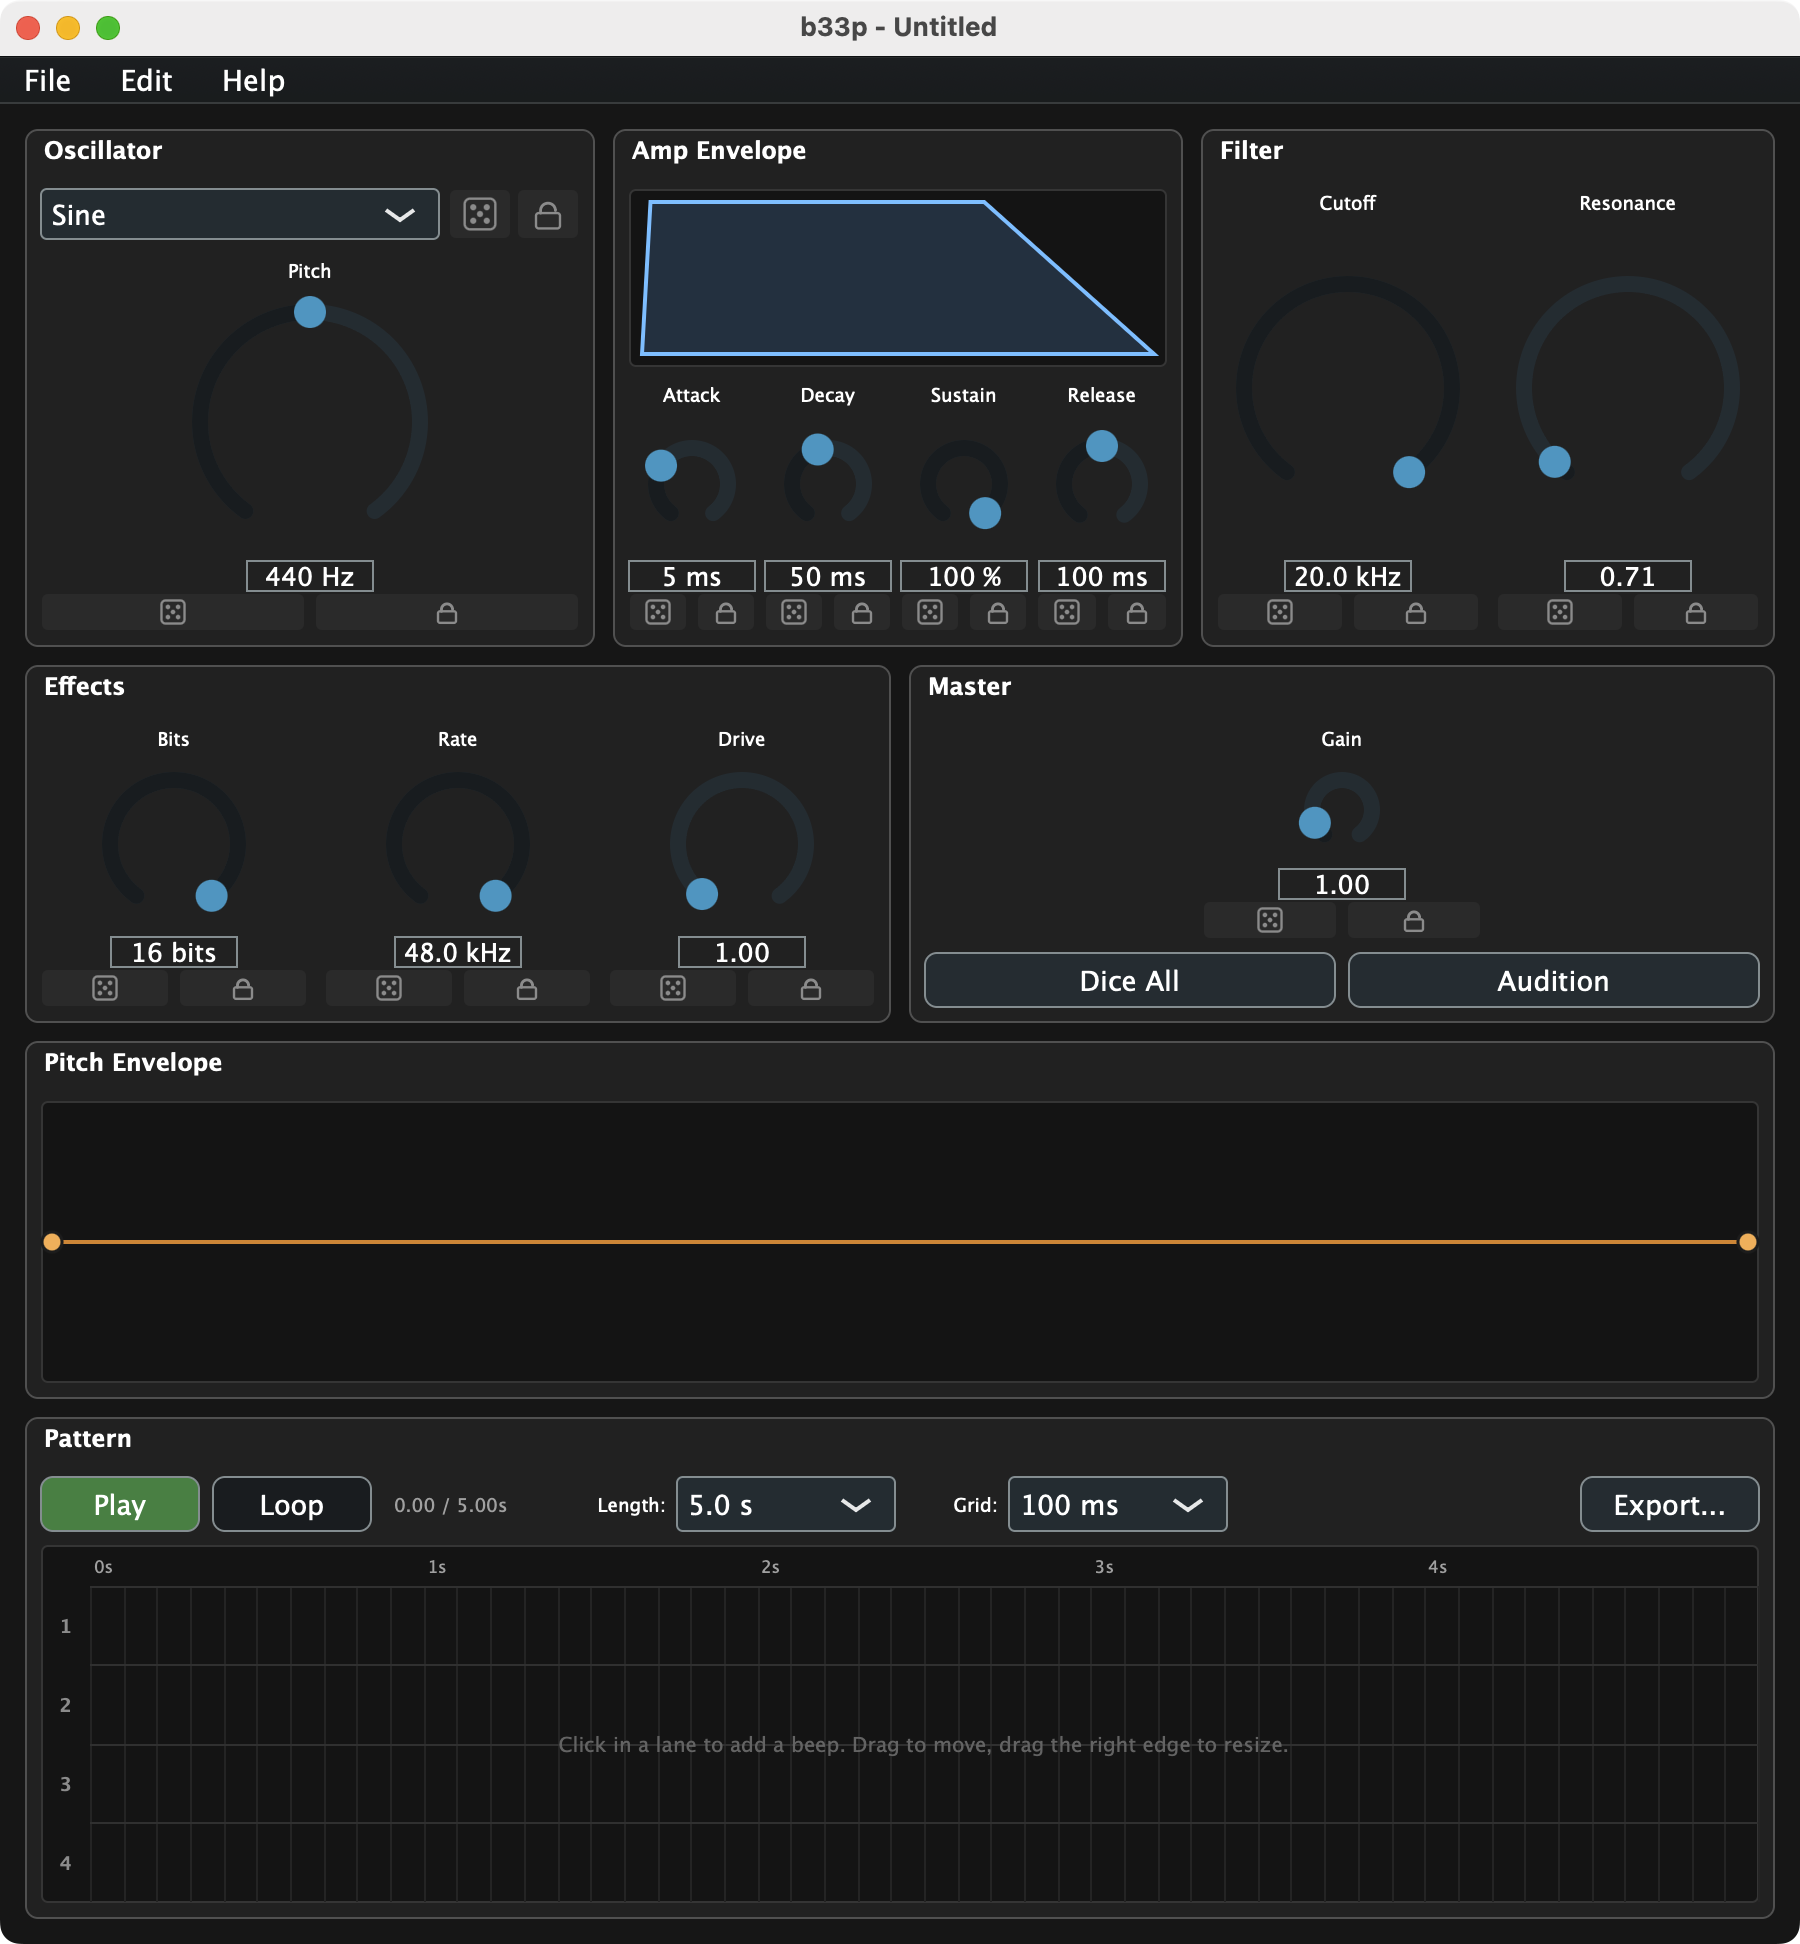
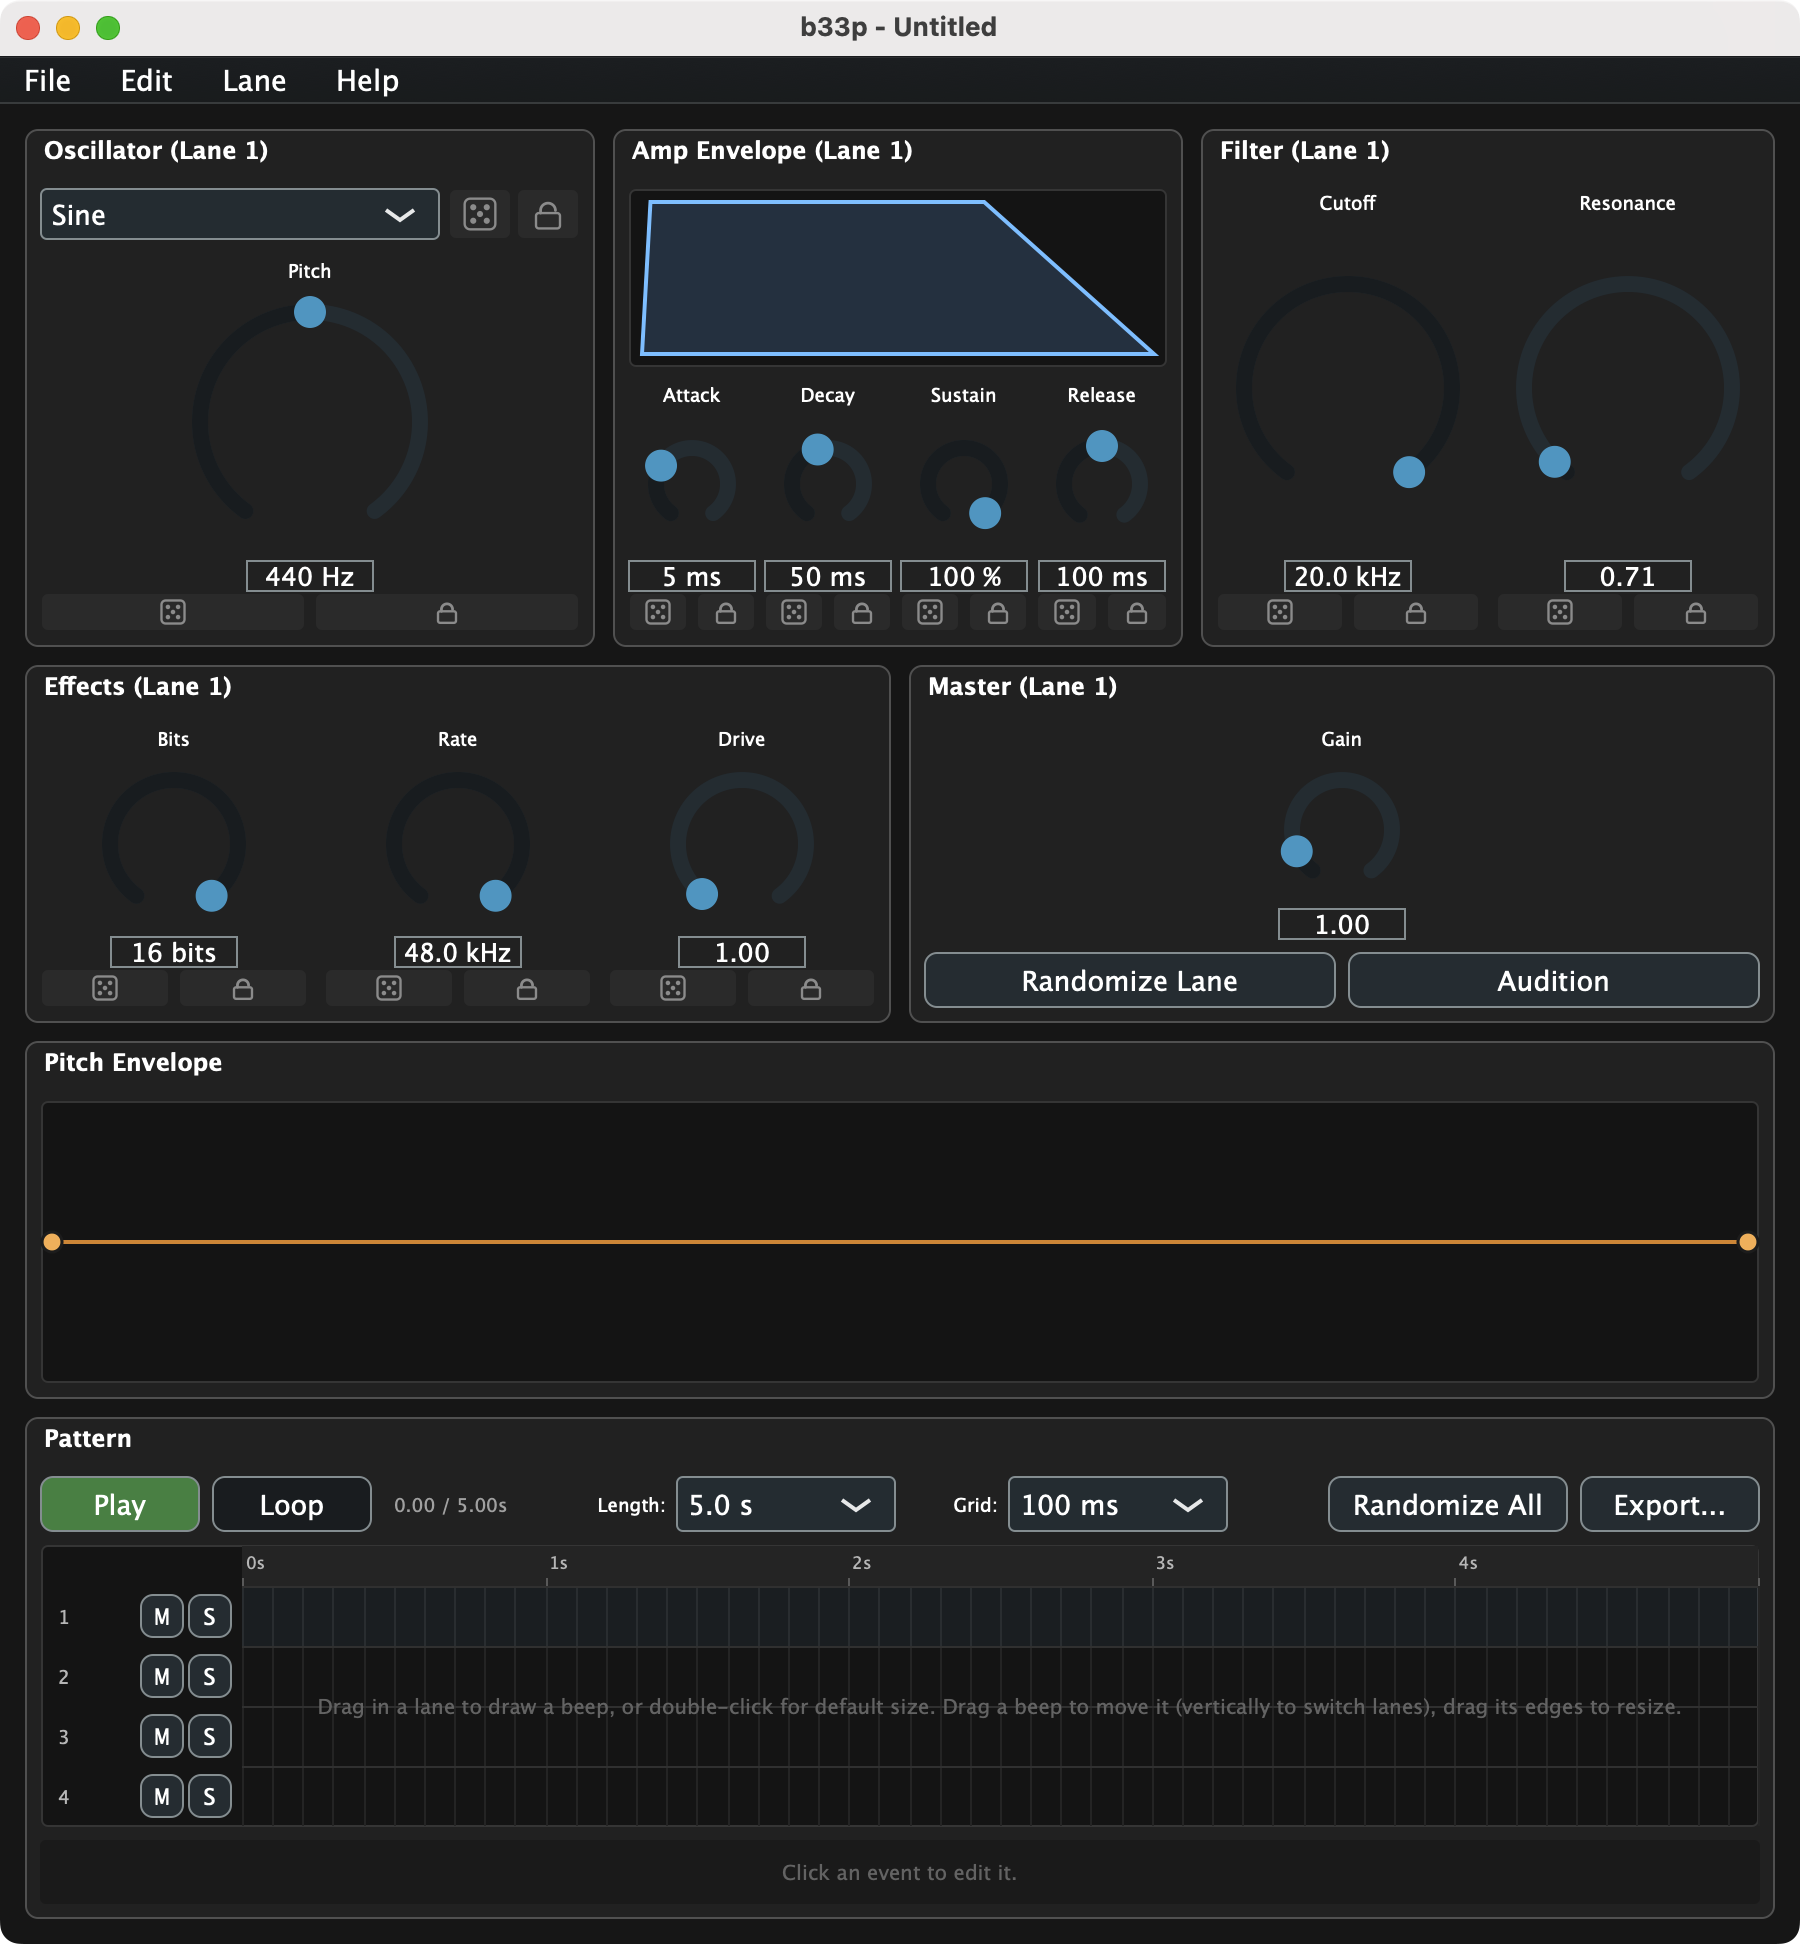
docs: rewrite README to match the current build + refresh hero screenshot
Resolves the highest-priority finding from the end-user review:
the README was telling new users about controls that don't exist
("big Dice at top", "Pattern tab", Cmd+D / Cmd+E shortcuts,
musical-grid-snap promise) and listing shipped features as
"Coming after v0.1" (Custom Waveforms, Multi-voice).

The rewrite:
  - Status bumped from "Pre-alpha" to "v0.1.0 released" with a
    pointer to CI-built binaries.
  - Features section reflects the actual current build:
    per-lane voice editor, custom oscillator, drawn pitch env,
    multi-select + clipboard, generate-random-pattern,
    randomization safety caps, live-edit-during-playback.
  - Quickstart matches the actual UI (Audition button, Randomize
    Lane, drag-or-double-click in lane, Space = play/stop).
  - Keyboard shortcut table broken into Transport / File-Edit /
    Pattern groups; every documented shortcut now exists in the
    build, and the previously-undocumented ones (Cmd+A/C/V,
    arrows, Esc, Shift+Space) are listed.
  - New "Mouse / right-click" section covers the right-click
    menus, ruler-click-to-park-playhead, drag-top-edge-for-
    velocity, and lane-rename — all things that were
    discoverable only by trial.
  - "On the v0.2 roadmap" section points at the new
    `## v0.2 polish & doc sweep` entry in TODO.md.
  - "Beyond v0.2" trimmed to features that aren't yet built.

Hero screenshot regenerated against the current UI so the Lane
menu, "(Lane N)" section suffixes, M/S per-lane buttons,
[…]

diff --git a/README.md b/README.md
@@ -2,45 +2,55 @@
 
 > Small sounds. Fast iteration. Infinite dice rolls.
 
-**b33p** is a focused sound-design tool for short synthesized beeps, blips, alarms, and droid chatter — the kind of sounds you'd hear from Star Wars droids, retro games, sci-fi UIs, and chirpy gadgets. Design a voice, lay it out on a pattern timeline, hit the dice until something surprises you, then export a WAV.
+**b33p** is a focused sound-design tool for short synthesized beeps, blips, alarms, and droid chatter — the kind of sounds you'd hear from Star Wars droids, retro games, sci-fi UIs, and chirpy gadgets. Design a voice, lay it out on a pattern timeline, hit Randomize until something surprises you, then export a WAV.
 
 Built for sound designers, game developers, and synth hobbyists who want a tight workflow for one specific problem: making a lot of good tiny sounds, quickly.
 
 ## Status
 
-**Pre-alpha — not yet released.** Active development toward v0.1 (MVP). See [TODO.md](TODO.md) for the roadmap.
+**v0.1.0 released — actively iterating toward v0.2.** Built binaries for macOS, Linux, and Windows are attached to each [GitHub Actions run on `main`](https://github.com/themightyzq/b33p/actions/workflows/build.yml). See [TODO.md](TODO.md) for the active backlog.
 
-## Features (MVP target)
+## Features
 
-What the first release will actually do:
+- **Per-lane voice design** — every lane in the pattern owns its own voice (4 lanes, 4 independently-tuneable timbres). Pick a lane in the pattern grid; the voice editor retargets to that lane's parameters.
+- **Oscillator** — sine, square, triangle, saw, noise, plus a **drawable custom single-cycle waveform** per lane.
+- **Drawn pitch envelope** — click in the curve to add points, drag to shape, right-click to delete. Shared across lanes.
+- **ADSR amp envelope** — with a live visualiser.
+- **Lowpass filter, bitcrush, distortion, master gain.**
+- **Pattern sequencer** — 4 lanes, up to 10 seconds, per-event start / duration / pitch offset / velocity. Snap grid in milliseconds (10 ms ... 1000 ms, or off). Per-lane name, mute, and solo.
+- **Direct-manipulation clip editing** — drag the body to move (vertically across lanes), drag either edge to resize, drag the top edge to set velocity, double-click empty grid to drop a clip at default size, or click + drag empty grid to draw any size. Cursor changes to telegraph the gesture.
+- **Multi-select + clipboard** — shift-click to extend the selection, Cmd+A select all, Cmd+C / Cmd+V copy/paste at the playhead.
+- **Generate random pattern** — right-click an empty lane area and pick "Generate random pattern in this lane" for instant rhythm.
+- **Randomization with safety rails** — every parameter (except master gain) has a per-knob dice + lock; "Randomize Lane" rolls the selected lane's voice; "Randomize All" rolls every lane. Random rolls are capped at safe ranges so a single click can't blow ears or speakers (release ≤ 100 ms, attack ≤ 500 ms, resonance ≤ Q 5, drive ≤ 20).
+- **Live editing during playback** — adding events, dragging clips, drawing custom waveforms — all audible within ~5 ms while the pattern loops.
+- **WAV export** — 8 / 11.025 / 16 / 22.05 / 44.1 / 48 kHz; 8 / 16 / 24-bit; mono or stereo. Built for both clean renders and crunchy retro-console exports.
+- **Project save / load** — `.beep` files carry the full project state, including custom waveform tables. Format is versioned with explicit migrations; older `.beep` files always open in newer b33p versions.
+- **Full undo / redo** through every editing surface.
 
-- **Voice design** — one oscillator (sine, square, triangle, saw, noise), drawable pitch envelope, ADSR amp envelope, lowpass filter, bitcrush, distortion, master gain
-- **Pattern sequencer** — up to 4 lanes, 10-second max, per-event pitch offset, grid snap (1/4 down to 1/32, or off)
-- **Dice everywhere** — every parameter has a lock and a dice button. A top-level dice rerolls everything unlocked. Full undo support.
-- **WAV export** — sample rates from 8 kHz up to 48 kHz, bit depths from 8-bit up to 24-bit, mono or stereo. Built for both clean renders and crunchy retro-console exports.
-- **Project save / load** — `.beep` files carry the full project state
+### On the v0.2 roadmap
 
-### Coming after v0.1
+- README quickstart + screenshot refresh, in-app audio settings menu, Edit menu with shortcut listings, in-app explanation of the per-lane voice model, output level meter. See `## v0.2 polish & doc sweep` in [TODO.md](TODO.md).
 
-Roadmap highlights — not built yet, not promised on a date, but on the list. Full details in [TODO.md](TODO.md).
+### Beyond v0.2
 
-- **Custom drawn waveforms** (draw your own single-cycle shape)
-- **Multiple voices per project** — one voice per lane
-- **Generator presets** — one-click starting points for droids, alarms, weapons, UI
-- **VST3 / AU plugin builds**
-- **LFOs and a modulation matrix**
+Roadmap highlights — see [TODO.md](TODO.md) for the full list:
+
+- **Per-event probability, ratcheting, humanize**
 - **Wavetable, FM, ring-mod oscillators**
+- **LFOs and a modulation matrix**
+- **Generator presets** — one-click starting points for droids, alarms, weapons, UI
 - **Preset browser with tags**
+- **VST3 / AU plugin builds**
 
 ## Screenshots
 
 ![b33p main window — voice editor, pitch envelope, and pattern sequencer](docs/images/hero.png)
 
-The full editor at default state: oscillator, amp envelope (with live ADSR visualiser), filter, effects, master with audition + dice-all, the drawable pitch envelope, and the pattern sequencer with grid-snap and WAV export. Every continuous parameter has a per-knob dice (`D`) and lock (`L`) so you can roll only what you haven't pinned.
+The full editor at default state: per-lane voice editor (Oscillator / Amp Envelope / Filter / Effects / Master) with a "(Lane N)" suffix telling you which lane you're editing, the shared drawable pitch envelope, and the pattern sequencer with per-lane name + mute + solo, snap grid, playhead readout, and Randomize-All / Export controls.
 
 ## Installation
 
-Prebuilt binaries: **TBD at v0.1.** Until then, build from source.
+Prebuilt binaries: grab the latest green CI run from [GitHub Actions](https://github.com/themightyzq/b33p/actions/workflows/build.yml) and download the `b33p-macos-latest`, `b33p-ubuntu-latest`, or `b33p-windows-latest` artifact. Or build from source:
 
 ### Prerequisites (all platforms)
 
@@ -83,42 +93,72 @@ cmake -B build -DCMAKE_BUILD_TYPE=Release
 cmake --build build
 ```
 
-The app lands at `build/B33p_artefacts/b33p`.
+The app lands at `build/B33p_artefacts/Release/b33p`.
 
 ## Quick start — your first beep
 
-1. Open b33p. You land on the voice editor with a default patch.
-2. Click the big **Dice** at the top. Do it a few times until something catches your ear. Click the lock next to any parameter you want to keep while rerolling the rest.
-3. Switch to the **Pattern** tab. Click-drag in a lane to draw an event. Drag the edges to resize, drag the body to move, hit Delete to remove it.
-4. Press **Space** to loop-play the pattern. Keep dicing and tweaking until it sounds right.
-5. **File → Export WAV** to render.
+1. Open b33p. The voice editor is on the left + middle; the pattern grid is at the bottom.
+2. Click the **Audition** button (or press **Shift+Space**) to hear the default voice.
+3. Click **Randomize Lane** in the Master strip a few times until something catches your ear. Click the lock next to any per-knob value to pin it across rolls.
+4. In the **Pattern** grid at the bottom, drag in a lane to draw an event (or double-click for default size). Drag the body to move, drag the edges to resize, drag the top edge to set velocity, hit Delete to remove.
+5. Press **Space** to start / stop pattern playback. Edits are audible immediately while looping.
+6. Click **Export...** in the Pattern controls to render a WAV.
 
 ## Keyboard shortcuts
 
+### Transport
 | Shortcut | Action |
 | --- | --- |
-| `Space` | Audition voice / play pattern (context-dependent) |
-| `Cmd/Ctrl + Z` | Undo |
-| `Cmd/Ctrl + Shift + Z` | Redo |
-| `Cmd/Ctrl + S` | Save project |
-| `Cmd/Ctrl + Shift + S` | Save project as… |
-| `Cmd/Ctrl + O` | Open project |
-| `Cmd/Ctrl + E` | Export WAV |
-| `Cmd/Ctrl + D` | Dice all unlocked |
-| `Cmd/Ctrl + /` | About b33p |
-| `Delete` / `Backspace` | Delete selected event |
+| `Space` | Play / stop the pattern |
+| `Shift + Space` | Audition the selected lane's voice |
+
+### File / Edit
+| Shortcut | Action |
+| --- | --- |
+| `Cmd + N` | New project |
+| `Cmd + O` | Open project |
+| `Cmd + S` | Save |
+| `Cmd + Shift + S` | Save As… |
+| `Cmd + Z` | Undo |
+| `Cmd + Shift + Z` | Redo |
+| `Cmd + /` | About b33p |
+
+### Pattern editing (when the pattern grid has focus)
+| Shortcut | Action |
+| --- | --- |
+| `Cmd + A` | Select every event |
+| `Cmd + C` | Copy the selected events |
+| `Cmd + V` | Paste the clipboard at the playhead |
+| `Delete` / `Backspace` | Delete the selected events |
+| `←` / `→` | Nudge the selected events by one grid step |
+| `Shift + ←` / `Shift + →` | Nudge by ten grid steps |
+| `Esc` | Deselect everything |
+
+On Windows / Linux, swap `Cmd` for `Ctrl`.
+
+## Mouse / right-click
+
+- **Drag in empty grid area** — draw a new event whose duration matches the dragged distance.
+- **Double-click in empty grid area** — create an event at the default 100 ms duration.
+- **Drag a clip body** — move horizontally; vertical drag retargets the lane.
+- **Drag a clip's left or right edge** — resize.
+- **Drag a clip's top edge** — set the event's velocity.
+- **Click in the grid's ruler row (top strip)** — park the playhead at that time. Cmd+V then pastes the clipboard there.
+- **Right-click on a clip** — Delete / Duplicate.
+- **Right-click on empty lane area** — Generate random pattern / Clear lane.
+- **Double-click on a lane label (the "1" / "2" / ...)** — rename the lane (persists in the `.beep` file).
 
 ## File format
 
-Projects save as `.beep` files. A `.beep` is a versioned `ValueTree` serialization of the full project: voice parameters, pitch-envelope curve, pattern lanes and events, and lock/range state. It's self-contained — no external sample files — so a `.beep` is portable and small.
+Projects save as `.beep` files. A `.beep` is a versioned `ValueTree` serialization of the full project: per-lane voice parameters, pitch-envelope curve, pattern lanes / events / lane meta (name, mute, solo, custom waveform), and lock state. It's self-contained — no external sample files — so a `.beep` is portable and small.
 
-The format is versioned from v1 onward; older `.beep` files will always open in newer b33p versions via explicit migrations.
+The format is versioned (currently v2) with explicit migrations; older `.beep` files always open in newer b33p versions.
 
 ## Contributing
 
 Issues are welcome — bug reports, feature requests, rough-edge sightings.
 
-Pull requests: please open an issue first to discuss scope. The project has a strict MVP focus (see [TODO.md](TODO.md)), and PRs for out-of-phase features — however good — will be redirected to the roadmap rather than merged.
+Pull requests: please open an issue first to discuss scope. The project has tight focus (see [TODO.md](TODO.md)), and PRs for items not on the active roadmap will be redirected rather than merged.
 
 ## License
 
